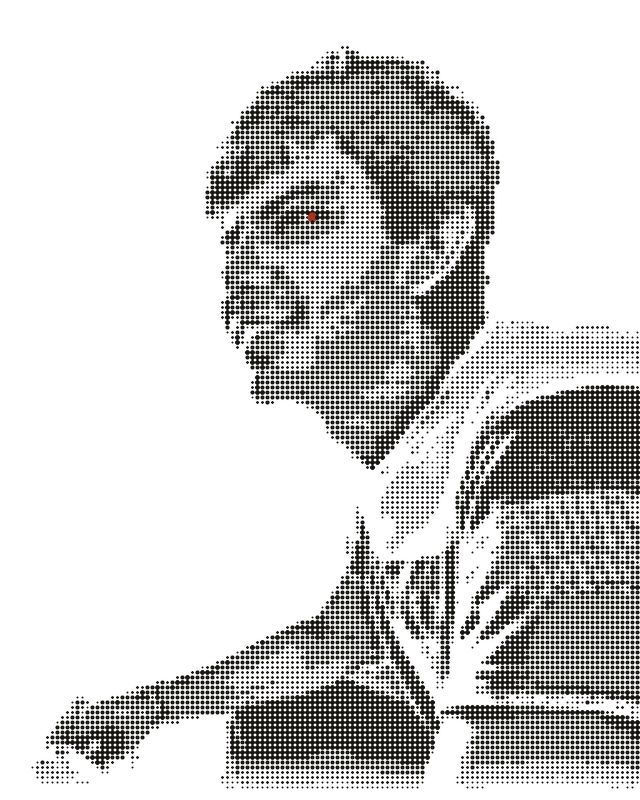
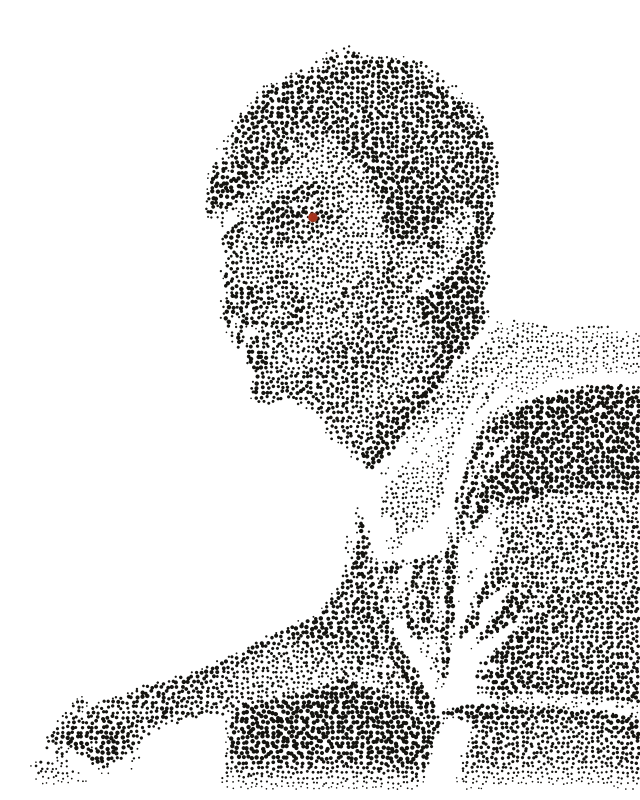
The stills were 24% over-inked, and a lock for the bug that nearly shipped
THE STILLS. `public/portrait/dots-*.webp` is what a visitor sees with
JavaScript off, what the printer prints, and what forced-colors shows. It is
the bottom rung of the tier ladder, and section 8.7 says every rung must
agree -- which is exactly the sort of claim nothing checks, so it drifted.

Two faults, both measured against the exact pi/4 * d^2:

  PIL's `ellipse` bounding box is ENDPOINT-INCLUSIVE. Asking for a disc of
  diameter D paints D + 1 pixels across, which at these sizes is not a
  rounding error: 1.11x too large at 20px and 3.5x at 1.2px. The 2x
  supersample halved it and no more. Measured on the shipped files, the
  stills carried 1.23x, 1.26x and 1.24x the ink the board draws. They now
  measure 0.99x, 1.00x and 0.99x -- the mask is drawn at 8x with the
  endpoint corrected and box-filtered down, BOX because it is an exact area
  average where LANCZOS rings and haloes every dot.

  And the still was a RULED screen where the board is stochastic. The plan
  is explicit that the jitter is load-bearing -- a ruled grid of marks is
  invisible on a dark ground and unavoidable on white, where it shows a
  screen door and beats against the display's own pixel grid. That argument
  does not stop applying because the picture is a fallback. The still now
  breaks the lattice by the same third of a cell, with the shaders' own
  hash, and the moire in the flat areas is gone.

The datum is composited separately and analytically now: it is the one mark
[…]

Changed region(s): [[0.0625, 0.0625, 1.0, 1.0]]

diff --git a/scripts/bake-portrait.py b/scripts/bake-portrait.py
@@ -102,6 +102,26 @@ UNLIT = 0.05
 LIFT, INK_GAIN, DEEP_FLOOR, CULL_DIA, INK_DIA_MAX = 0.55, 1.15, 0.16, 0.30, 1.42
 
 
+# The stochastic screen, in the same numbers the two renderers use.
+#
+# It is not decoration. A ruled orthogonal grid of marks is invisible on a dark
+# ground and unavoidable on white: it shows a screen door and it beats against
+# the display's own pixel grid. The board breaks the lattice by a third of a
+# cell for exactly that reason, and the still has to do it too or the picture a
+# no-JS visitor gets is a moire pattern of the picture everyone else gets.
+#
+# The hash is the shaders' hash (gl-board.ts, board.ts). Float64 here against
+# float32 there means the two do not land on identical offsets, which does not
+# matter: what has to match is the CHARACTER of the screen, not the seed.
+JITTER = 0.34  # cells
+
+
+def jitter_of(i: int, j: int) -> tuple[float, float]:
+    a = math.modf(math.sin(i * 12.9898 + j * 78.233) * 43758.5453)[0] % 1.0
+    b = math.modf(math.sin(i * 39.3468 + j * 11.135) * 24634.6345)[0] % 1.0
+    return (a - 0.5) * 2.0 * JITTER, (b - 0.5) * 2.0 * JITTER
+
+
 def ink_dia(L: float) -> float:
     """Dot diameter in cells for a cell of luminance L, or 0 if it is culled."""
     coverage = (1.0 - min(max(L, DEEP_FLOOR), 1.0) ** LIFT) ** INK_GAIN
@@ -404,29 +424,89 @@ def render(
     on the sheet that is vermilion.
     """
     rows, cols = field.shape
-    ss = 2
     W, H = int(cols * cell_px), int(rows * cell_px)
-    img = Image.new("RGBA", (W * ss, H * ss), (0, 0, 0, 0) if transparent else (*PAPER, 255))
-    d = ImageDraw.Draw(img)
+
+    # AREA HAS TO BE EXACT HERE, and it was not.
+    #
+    # This still is what a visitor sees with JavaScript off, what the printer
+    # prints, and what forced-colors shows. It is the bottom rung of the tier
+    # ladder, and section 8.7 of the direction says every rung must agree --
+    # which is precisely the kind of claim nothing checks, so it drifted. The
+    # old renderer drew each dot with PIL's `ellipse`, whose bounding box is
+    # ENDPOINT-INCLUSIVE: asking for a disc of diameter D paints D + 1 pixels
+    # across. At these sizes that is not a rounding error. Measured against the
+    # exact pi/4 * d^2, a dot came out 1.11x too large at 20px and 3.5x too
+    # large at 1.2px, and the 2x supersample this used only halved it. The
+    # stills were systematically darker than the board they stand in for --
+    # about 20% at a 6px cell and 65% at 5px.
+    #
+    # So the mask is drawn at 8x with the endpoint corrected, then box-filtered
+    # down. BOX is an exact area average, which is what coverage means; LANCZOS
+    # rings and would put a pale halo around every dot. At 8x the smallest dot
+    # the transfer can emit (CULL_DIA 0.30 cells, 5px cells) is 12 device px,
+    # where the corrected box measures within 1% of exact.
+    #
+    # An "L" mask rather than RGBA: 8x of a 960 x 1200 field is 74 MB in one
+    # channel and 295 MB in four.
+    ss = 8
     k = cell_px * ss
+    mask = Image.new("L", (W * ss, H * ss), 0)
+    d = ImageDraw.Draw(mask)
+    datum_dia = 0.0
+    datum_xy = (0.0, 0.0)
     for j in range(rows):
         for i in range(cols):
             v = int(field[j, i])
             if v == 0:
                 continue
-            L = v / 255
+            jx, jy = jitter_of(i, j)
+            X, Y = (i + 0.5 + jx) * k, (j + 0.5 + jy) * k
             if (i, j) == datum:
-                dia, col = 0.96 * density, SUN
-            else:
-                dia = ink_dia(L)
-                if dia == 0.0:
-                    continue  # below resolution is haze; bare paper is a highlight
-                col = INK
+                # The one vermilion mark on the sheet, composited afterwards so
+                # it sits in its own ink rather than in the ink mask.
+                datum_dia = 0.96 * density
+                datum_xy = ((i + 0.5 + jx) * cell_px, (j + 0.5 + jy) * cell_px)
+                continue
+            dia = ink_dia(v / 255)
+            if dia == 0.0:
+                continue  # below resolution is haze; bare paper is a highlight
             r = dia * k / 2
-            X, Y = (i + 0.5) * k, (j + 0.5) * k
-            a = int(255 * alpha_scale)
-            d.ellipse((X - r, Y - r, X + r, Y + r), fill=(*col, a))
-    return img.resize((W, H), Image.LANCZOS)
+            d.ellipse((X - r, Y - r, X + r - 1, Y + r - 1), fill=255)
+    ink_cov = np.asarray(mask.resize((W, H), Image.BOX), dtype=np.float32) / 255.0
+    del mask
+
+    # The datum, drawn analytically at final resolution: one dot, and it is the
+    # only mark allowed a second colour, so it must not go through the ink mask.
+    sun_cov = np.zeros((H, W), np.float32)
+    if datum_dia > 0.0:
+        r = datum_dia * cell_px / 2
+        cx, cy = datum_xy
+        N = 8
+        x0, x1 = max(0, int(cx - r - 1)), min(W, int(cx + r + 2))
+        y0, y1 = max(0, int(cy - r - 1)), min(H, int(cy + r + 2))
+        if x1 > x0 and y1 > y0:
+            off = (np.arange(N) + 0.5) / N
+            xs = (np.arange(x0, x1)[:, None] + off[None, :]).ravel()
+            ys = (np.arange(y0, y1)[:, None] + off[None, :]).ravel()
+            inside = ((ys[:, None] - cy) ** 2 + (xs[None, :] - cx) ** 2) <= r * r
+            sun_cov[y0:y1, x0:x1] = inside.reshape(y1 - y0, N, x1 - x0, N).mean(axis=(1, 3))
+
+    ink_cov = np.maximum(ink_cov - sun_cov, 0.0)
+    alpha = np.clip((ink_cov + sun_cov) * alpha_scale, 0.0, 1.0)
+    ink_rgb = np.array(INK, np.float32)
+    sun_rgb = np.array(SUN, np.float32)
+    total = ink_cov + sun_cov
+    with np.errstate(invalid="ignore", divide="ignore"):
+        wsun = np.where(total > 0, sun_cov / np.maximum(total, 1e-6), 0.0)[..., None]
+    colour = ink_rgb * (1.0 - wsun) + sun_rgb * wsun
+
+    if transparent:
+        out = np.dstack([colour, alpha[..., None] * 255.0])
+    else:
+        paper = np.array(PAPER, np.float32)
+        rgb = paper * (1.0 - alpha[..., None]) + colour * alpha[..., None]
+        out = np.dstack([rgb, np.full((H, W, 1), 255.0, np.float32)])
+    return Image.fromarray(np.clip(out + 0.5, 0, 255).astype(np.uint8), "RGBA")
 
 
 def main() -> None:
